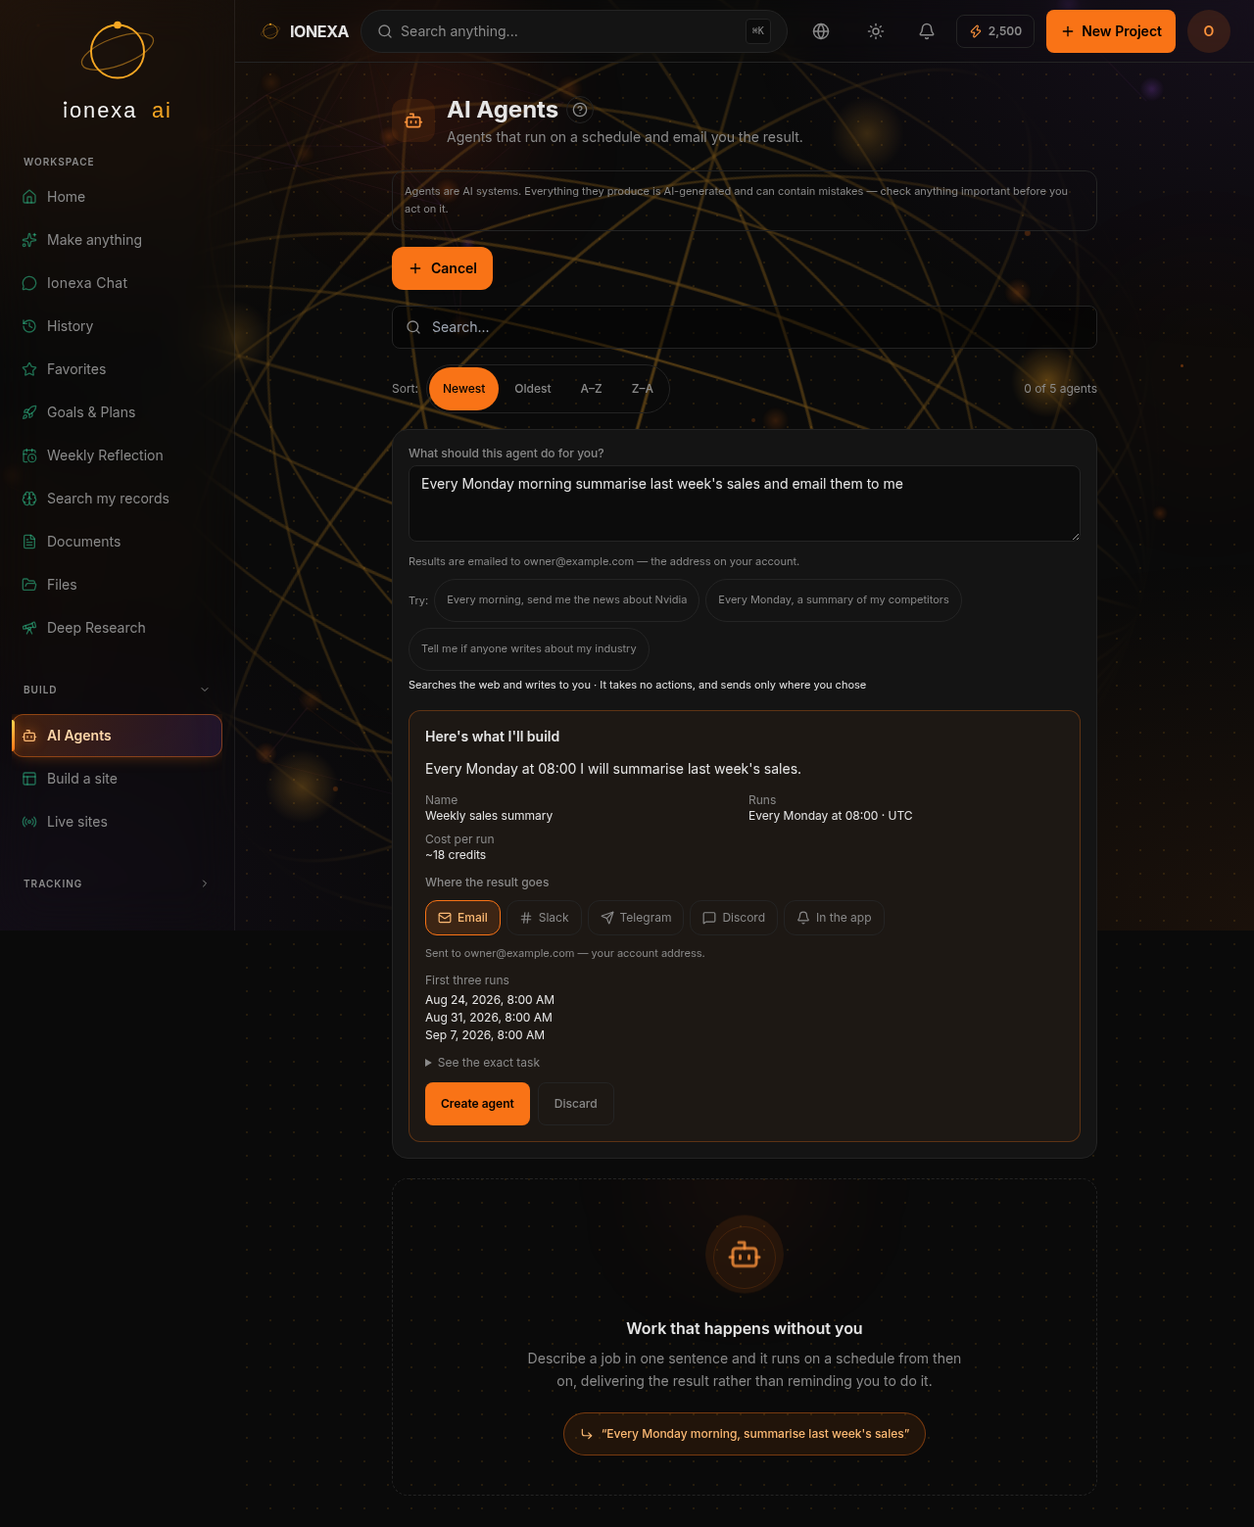
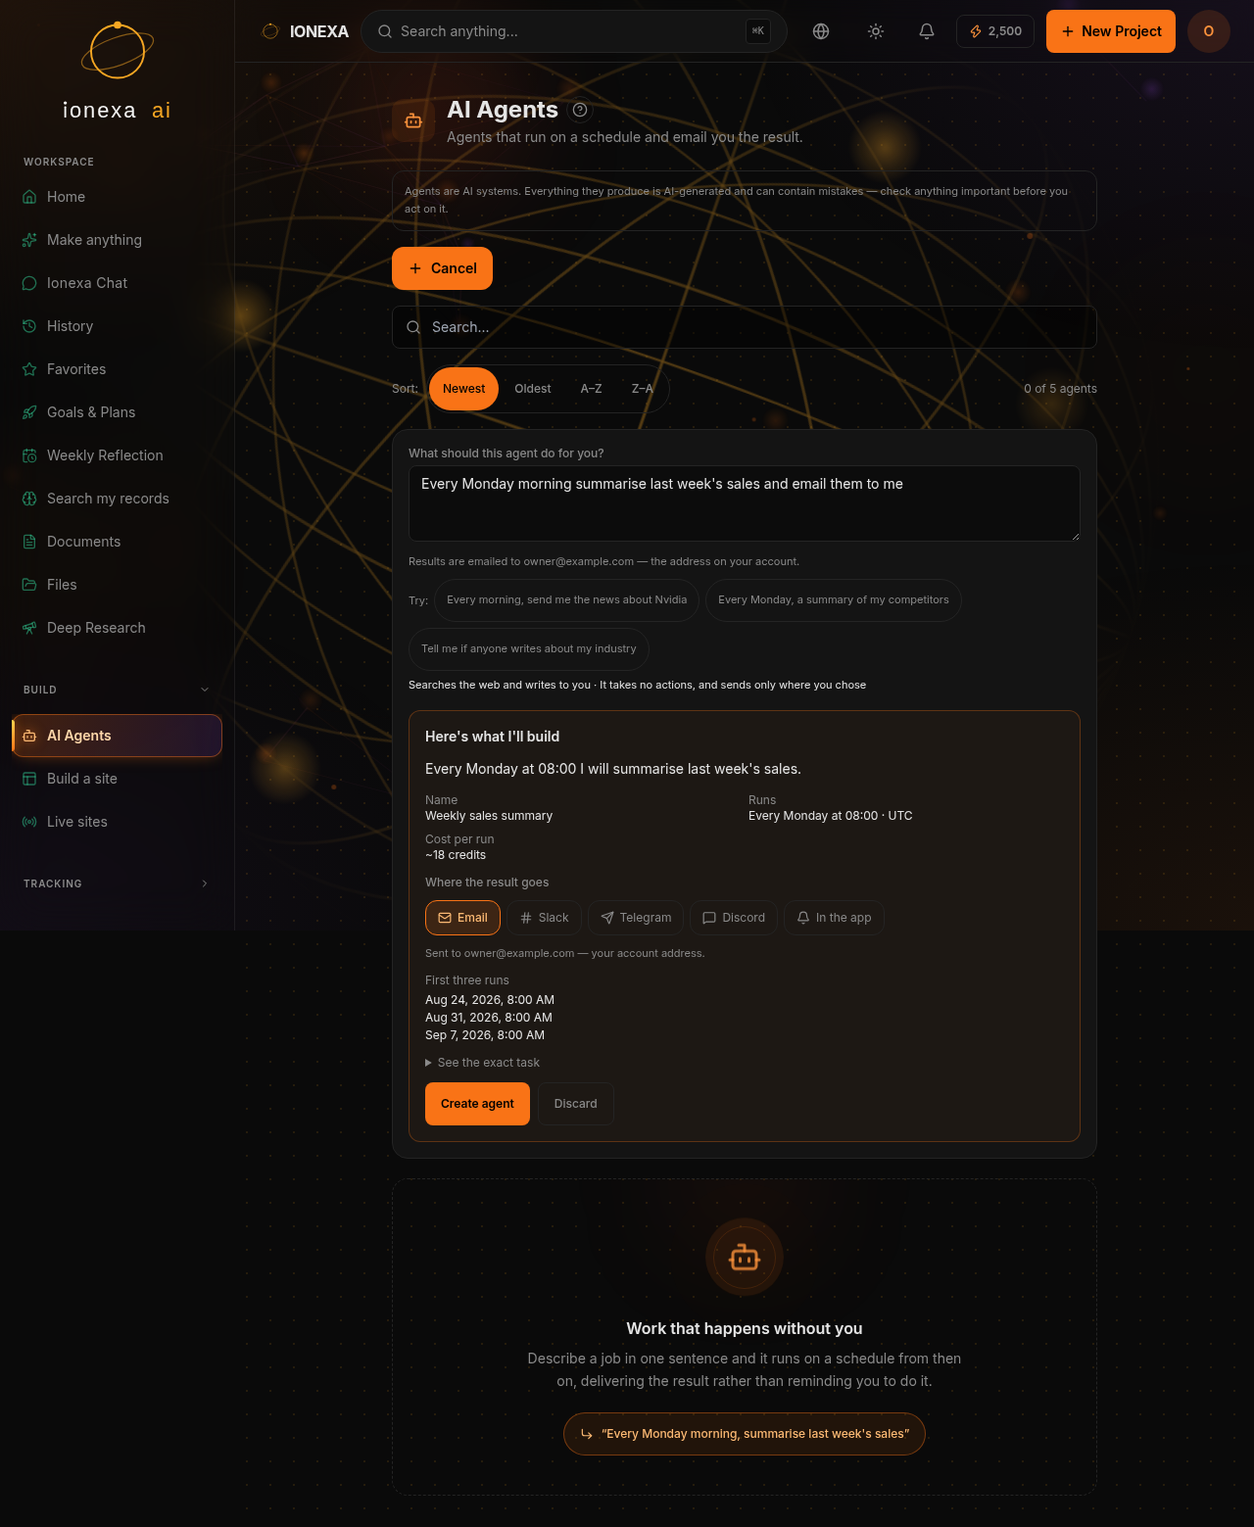
Close a cross-tenant read in the AI context, and four defects the V1/V2 audit surfaced
THE SERIOUS ONE. getUserFullContext — the "AI Life Context" folded into
the Chat, Create Anything, Mission Planner and agent-build prompts — left
scoping entirely to RLS. That holds for a client carrying the user's
session and does NOT hold for the service-role client, which two job
handlers pass in (lib/jobs/handlers/create.ts, mission-plan.ts). Under
that client the unfiltered reads returned the newest rows in the TABLE,
not the newest rows of THIS USER: on any database with more than one
account, one customer's ideas, leads, finance entries, trades and missions
were folded into another customer's prompt, and the model answered out of
them. loadLatestEnergyCheckIn took a userId and used it only in a log
line, with the same consequence.

api/agents/build had spotted the hazard and worked around it by calling
from the route instead of the worker. A workaround at one call site is not
a fix, so the filter now lives inside the functions, where it holds
whatever client is handed in. Both handlers keep passing the worker's
client — that is the point. A scanner in owner-only-access.test.mjs now
fails on any unscoped read in either file; the first version of that
scanner matched 2 of 5 reads and reported all-clear, which is why it was
rewritten before being trusted.

FOUR MORE, each verified against the code before being believed:

- Mission plans and weekly reflections came back in Greek for everyone.
  The Planner prompt is written in Greek and, unlike the Reviewer beside
[…]

diff --git a/src/lib/reflection-agent.ts b/src/lib/reflection-agent.ts
@@ -9,8 +9,16 @@ import { enModuleTitle } from "@/lib/module-labels";
 // Exported so the route prices the SAME model this file calls.
 export const REFLECTION_MODEL = "claude-sonnet-4-6";
 
-const REFLECTION_SYSTEM_PROMPT = `Δώσε σύντομη, ειλικρινή ανασκόπηση της βδομάδας — τι πήγε καλά, τι έμεινε ημιτελές, ΧΩΡΙΣ να είσαι υπερβολικά θετικός αν τα δεδομένα δείχνουν στασιμότητα. Βασίσου ΑΠΟΚΛΕΙΣΤΙΚΑ στα δεδομένα που σου δίνονται — μην υποθέτεις ή εφευρίσκεις πράγματα που δεν αναφέρονται. 3-6 σύντομες προτάσεις ή bullet points. Απάντα στα ελληνικά, εκτός αν κάτι στα δεδομένα υποδεικνύει άλλη γλώσσα.
+// LANGUAGE IS A PARAMETER, not a default. This used to end "Απάντα στα
+// ελληνικά, εκτός αν κάτι στα δεδομένα υποδεικνύει άλλη γλώσσα" — answer
+// in Greek unless the data suggests otherwise. A weekly reflection is
+// mostly NUMBERS, so nothing in the data suggests anything, and every
+// user in all ten locales got Greek. The caller knows the language; it
+// says so here.
+function reflectionSystemPrompt(language: string): string {
+  return `Δώσε σύντομη, ειλικρινή ανασκόπηση της βδομάδας — τι πήγε καλά, τι έμεινε ημιτελές, ΧΩΡΙΣ να είσαι υπερβολικά θετικός αν τα δεδομένα δείχνουν στασιμότητα. Βασίσου ΑΠΟΚΛΕΙΣΤΙΚΑ στα δεδομένα που σου δίνονται — μην υποθέτεις ή εφευρίσκεις πράγματα που δεν αναφέρονται. 3-6 σύντομες προτάσεις ή bullet points. Απάντησε ΑΠΟΚΛΕΙΣΤΙΚΑ στη γλώσσα του χρήστη (${language}) — ΠΟΤΕ σε άλλη.
 ${AI_CONDUCT_EL}${AI_QUALITY_CHECKLIST_EL}`;
+}
 
 // Turns the computed stats (lib/reflection.ts) into the plain-text user
 // message the Reflection Agent actually reasons over — kept separate from
@@ -38,6 +46,8 @@ ${missionLine}`;
 export async function generateWeeklyReflection(
   apiKey: string,
   userMessage: string,
+  /** The user's language, e.g. "el" / "en" / "de". */
+  language: string,
   // This call recorded nothing at all — the route charged a flat 2
   // credits and the tokens never reached a cost log. See CREDITS.md.
   costs?: CostAccumulator
@@ -46,7 +56,7 @@ export async function generateWeeklyReflection(
   const response = await anthropic.messages.create({
     model: REFLECTION_MODEL,
     max_tokens: 700,
-    system: REFLECTION_SYSTEM_PROMPT,
+    system: reflectionSystemPrompt(language),
     messages: [{ role: "user", content: userMessage }],
   });
   // Before the parse below, which can still bail out on an empty reply.

diff --git a/src/lib/user-context.ts b/src/lib/user-context.ts
@@ -38,6 +38,23 @@ type ModuleScan = {
 // throughout (same "small, per-module cap" trade-off as
 // lib/chat/mentor-context.ts) — this runs on every single AI request per
 // the brief, so keeping each query cheap matters more than usual.
+//
+// EVERY QUERY IN HERE FILTERS ON user_id EXPLICITLY, and that is not
+// belt-and-braces. It used to rely entirely on RLS, which is only true
+// for a client carrying the user's session — and TWO CALLERS pass the
+// SERVICE-ROLE client, for which RLS does not apply at all:
+// lib/jobs/handlers/create.ts and lib/jobs/handlers/mission-plan.ts both
+// run in the background worker, which has no session to hold. Under that
+// client the unfiltered `.from(table).select("*").limit(n)` returned the
+// newest rows in the TABLE rather than the newest rows of THIS USER — so
+// on any database with more than one account, one customer's ideas,
+// leads, finance entries and missions were folded into another
+// customer's prompt, and the model answered out of them.
+//
+// api/agents/build/route.ts had spotted the hazard and worked around it
+// by calling this from the route instead of the worker. A workaround at
+// one call site is not a fix: the guarantee belongs HERE, where it holds
+// whatever client is handed in.
 export async function getUserFullContext(
   supabase: SupabaseClient,
   userId: string
@@ -47,8 +64,8 @@ export async function getUserFullContext(
 
   const [perModule, missionsResult, latestEnergyCheckIn, totalLinksResult, recentLinksResult] =
     await Promise.all([
-      Promise.all(CLASSIFIER_MODULES.map((config) => scanModule(supabase, config, now))),
-      supabase.from("ai_missions").select("*"),
+      Promise.all(CLASSIFIER_MODULES.map((config) => scanModule(supabase, config, now, userId))),
+      supabase.from("ai_missions").select("*").eq("user_id", userId),
       loadLatestEnergyCheckIn(supabase, userId),
       supabase.from("entity_links").select("id", { count: "exact", head: true }).eq("user_id", userId),
       supabase
@@ -121,7 +138,8 @@ export async function getUserFullContext(
 async function scanModule(
   supabase: SupabaseClient,
   config: (typeof CLASSIFIER_MODULES)[number],
-  now: number
+  now: number,
+  userId: string
 ): Promise<ModuleScan> {
   const empty: ModuleScan = {
     title: enModuleTitle(config),
@@ -135,6 +153,10 @@ async function scanModule(
     const { data, error } = await supabase
       .from(config.table)
       .select("*")
+      // EXPLICIT, not left to RLS. See the note on getUserFullContext:
+      // this same query runs under the service-role client in two job
+      // handlers, where RLS does not apply at all.
+      .eq("user_id", userId)
       .order("created_at", { ascending: false })
       .limit(PER_MODULE_LIMIT);
 

diff --git a/src/app/dashboard/memory/page.tsx b/src/app/dashboard/memory/page.tsx
@@ -44,6 +44,12 @@ function buildSnippet(config: ModuleConfig, record: ModuleRecord): string {
     : joined;
 }
 
+/** The same bounds lib/timeline.ts uses, for the same reason: this page
+ *  reads every module table, and an unbounded read of 21 tables is a
+ *  page that stops loading once somebody has real data. */
+const PER_MODULE_LIMIT = 60;
+const MAX_MEMORY_RESULTS = 200;
+
 export default async function MemoryPage() {
   const t = await getTranslations("dashboard.memory");
   const supabase = createClient();
@@ -70,12 +76,20 @@ export default async function MemoryPage() {
     );
   }
 
+  // BOUNDED, like the surface it is a sibling of. This asked 21 tables for
+  // `select("*")` with no limit and then serialised every row of every one
+  // of them into the client as props — fine on a demo account, a page-load
+  // timeout on a real one. lib/timeline.ts solved the identical problem
+  // with the identical shape (60 per module, 200 shown); the same numbers
+  // are used here so the two cannot drift into disagreeing about what
+  // "recent" means.
   const perModule = await Promise.all(
     ALL_MODULES.map(async ({ config, href }) => {
       const { data } = await supabase
         .from(config.table)
         .select("*")
-        .order("created_at", { ascending: false });
+        .order("created_at", { ascending: false })
+        .limit(PER_MODULE_LIMIT);
       return { config, href, records: (data as ModuleRecord[] | null) ?? [] };
     })
   );
@@ -91,7 +105,8 @@ export default async function MemoryPage() {
         createdAt: record.created_at,
       }))
     )
-    .sort((a, b) => new Date(b.createdAt).getTime() - new Date(a.createdAt).getTime());
+    .sort((a, b) => new Date(b.createdAt).getTime() - new Date(a.createdAt).getTime())
+    .slice(0, MAX_MEMORY_RESULTS);
 
   return (
     <main className="min-h-full bg-dot-grid">

diff --git a/src/app/dashboard/product-workflow/page.tsx b/src/app/dashboard/product-workflow/page.tsx
@@ -15,6 +15,7 @@ import { ProductMissionButton } from "@/components/product-workflow/product-miss
 import { getModule } from "@/lib/modules";
 import { PRODUCT_WORKFLOW_ICON } from "@/lib/module-icons";
 import { loadLinkedEntities } from "@/lib/entity-links";
+import { loadFavoriteIds } from "@/lib/favorites";
 import { loadTimelineEntries } from "@/lib/timeline";
 import { detectProductDetailInsight, type ProductForPattern } from "@/lib/product-pattern";
 import type { ModuleRecord } from "@/types/module-record";
@@ -60,12 +61,14 @@ export default async function ProductWorkflowPage() {
 
   const productRows = (products as ModuleRecord[] | null) ?? [];
 
-  const linkedEntities = await loadLinkedEntities(
-    supabase,
-    user.id,
-    "products",
-    productRows.map((r) => r.id)
-  );
+  // BOTH, in parallel. This page loaded links and not favourites,
+  // so GenericList fell back to `favoritedIds?.has(id) ?? false` and
+  // every star rendered empty — on records the user really had
+  // starred, and which show as starred on the module page.
+  const [linkedEntities, favoritedIds] = await Promise.all([
+    loadLinkedEntities(supabase, user.id, "products", productRows.map((r) => r.id)),
+    loadFavoriteIds(supabase, user.id, "products", productRows.map((r) => r.id)),
+  ]);
 
   const patternProducts: ProductForPattern[] = productRows.map((r) => ({
     id: r.id,
@@ -143,7 +146,7 @@ export default async function ProductWorkflowPage() {
           {error && <ErrorMessage detail={`loading products: ${error.message}`} />}
 
 
-          <GenericList module={productsModule} records={productRows} linkedEntities={linkedEntities} />
+          <GenericList module={productsModule} records={productRows} linkedEntities={linkedEntities} favoritedIds={favoritedIds} />
         </div>
       </div>
     </main>

diff --git a/src/lib/mission-agents.ts b/src/lib/mission-agents.ts
@@ -46,7 +46,15 @@ export type StepEffort = (typeof STEP_EFFORTS)[number];
 // schema gave it no other option. clarificationNeeded/clarificationQuestion
 // give it one: for a goal too vague to break into REAL concrete actions,
 // it asks a short follow-up question instead of fabricating filler steps.
+// LANGUAGE. This prompt is written in Greek and, unlike the Reviewer
+// below, carried no instruction about the answer's language — so a
+// goal written in German came back as Greek steps. The user never
+// asked for a translation exercise. The rule is the Reviewer's,
+// verbatim: answer in the language the GOAL is written in, which is
+// the one thing the model can always see.
 const PLANNER_SYSTEM_PROMPT = `Είσαι ο Planner Agent. Ανάλυσε τον στόχο του χρήστη σε ${MIN_STEPS}-${MAX_STEPS} ΕΚΤΕΛΕΣΙΜΑ βήματα.
+
+ΓΛΩΣΣΑ: Γράψε ΚΑΘΕ βήμα (τίτλο και περιγραφή) και κάθε διευκρινιστική ερώτηση ΣΤΗΝ ΙΔΙΑ ΓΛΩΣΣΑ που είναι γραμμένος ο στόχος του χρήστη. Αν ο στόχος είναι στα αγγλικά, τα βήματα είναι στα αγγλικά· στα γερμανικά, στα γερμανικά. ΠΟΤΕ μη μεταφράζεις τον στόχο σε άλλη γλώσσα.
 
 ΤΙ ΣΗΜΑΙΝΕΙ "ΕΚΤΕΛΕΣΙΜΟ":
 Κάθε βήμα πρέπει να λέει ΤΙ ΑΚΡΙΒΩΣ κάνει ο χρήστης — με αριθμό, με όνομα, με συγκεκριμένη ενέργεια — και ΠΟΥ καταλήγει το αποτέλεσμα μέσα στην εφαρμογή.

diff --git a/src/app/dashboard/trading-workflow/page.tsx b/src/app/dashboard/trading-workflow/page.tsx
@@ -15,6 +15,7 @@ import { TradingMissionButton } from "@/components/trading-workflow/trading-miss
 import { getModule } from "@/lib/modules";
 import { TRADING_WORKFLOW_ICON } from "@/lib/module-icons";
 import { loadLinkedEntities } from "@/lib/entity-links";
+import { loadFavoriteIds } from "@/lib/favorites";
 import { loadTimelineEntries } from "@/lib/timeline";
 import {
   detectDayOfWeekPattern,
@@ -60,12 +61,14 @@ export default async function TradingWorkflowPage() {
 
   const tradeRows = (trades as ModuleRecord[] | null) ?? [];
 
-  const linkedEntities = await loadLinkedEntities(
-    supabase,
-    user.id,
-    "trades",
-    tradeRows.map((r) => r.id)
-  );
+  // BOTH, in parallel. This page loaded links and not favourites,
+  // so GenericList fell back to `favoritedIds?.has(id) ?? false` and
+  // every star rendered empty — on records the user really had
+  // starred, and which show as starred on the module page.
+  const [linkedEntities, favoritedIds] = await Promise.all([
+    loadLinkedEntities(supabase, user.id, "trades", tradeRows.map((r) => r.id)),
+    loadFavoriteIds(supabase, user.id, "trades", tradeRows.map((r) => r.id)),
+  ]);
 
   const patternTrades = tradeRows.map((r) => ({
     id: r.id,
@@ -174,7 +177,7 @@ export default async function TradingWorkflowPage() {
           {error && <ErrorMessage detail={`loading trades: ${error.message}`} />}
 
 
-          <GenericList module={tradingModule} records={tradeRows} linkedEntities={linkedEntities} />
+          <GenericList module={tradingModule} records={tradeRows} linkedEntities={linkedEntities} favoritedIds={favoritedIds} />
         </div>
       </div>
     </main>

diff --git a/src/components/modules/generic-record-detail.tsx b/src/components/modules/generic-record-detail.tsx
@@ -6,6 +6,8 @@ import { useRouter } from "next/navigation";
 import { useTranslations, useLocale } from "next-intl";
 import { FileText, Link2, Pencil, X } from "lucide-react";
 import { createClient } from "@/lib/supabase/client";
+import { ApiError } from "@/lib/errors/api-error";
+import { useErrorText } from "@/lib/errors/use-error-text";
 import { iconForSlug } from "@/lib/module-icons";
 import { DetailPanel, type DetailTab } from "@/components/ui/detail-panel";
 import { FavoriteButton } from "@/components/favorites/favorite-button";
@@ -67,6 +69,7 @@ export function GenericRecordDetail({
   const tCommon = useTranslations("common");
   const formatRelativeTime = useFormatRelativeTime();
   const router = useRouter();
+  const describe = useErrorText();
   const supabase = createClient();
   const { addToast } = useToast();
 
@@ -116,8 +119,14 @@ export function GenericRecordDetail({
     setSaving(false);
 
     if (updateError) {
-      setError(updateError.message);
-      addToast(`✗ ${updateError.message}`, "error");
+      // The SAME treatment the create path got: a raw PostgREST string
+      // ("new row violates row-level security policy for table \"trades\"")
+      // names an internal table, is English in a ten-language app, and
+      // tells the user nothing they can act on. Editing a record was the
+      // half of that fix nobody came back to.
+      const failure = describe(new ApiError(500, { error: updateError.message }));
+      setError(failure.text);
+      addToast(`✗ ${failure.what}`, "error");
       return;
     }
 

diff --git a/src/lib/jobs/use-ai-job.ts b/src/lib/jobs/use-ai-job.ts
@@ -211,15 +211,23 @@ export function useSmoothedJob(raw: AiJob | null): AiJob | null {
       // of the same finished row must not re-enqueue it.
       if (finishedQueued.current) return;
       finishedQueued.current = true;
-      for (let s = lastStep.current + 1; s <= total; s++) {
-        queue.current.push({
-          ...raw,
-          status: "running",
-          step: s,
-          stepLabel: steps[s - 1] ?? raw.stepLabel,
-        });
+      // ONLY ON SUCCESS. A job that completed really did pass every step,
+      // so showing the ones the polling missed is narration. A job that
+      // FAILED at step 1 did not reach steps 2-4, and showing them would
+      // be this component inventing work that never happened — the exact
+      // dishonesty the step counter exists to prevent. A failure jumps
+      // straight to the outcome, behind whatever is already queued.
+      if (raw.status === "done") {
+        for (let s = lastStep.current + 1; s <= total; s++) {
+          queue.current.push({
+            ...raw,
+            status: "running",
+            step: s,
+            stepLabel: steps[s - 1] ?? raw.stepLabel,
+          });
+        }
+        lastStep.current = total;
       }
-      lastStep.current = total;
       queue.current.push(raw);
     }
 

diff --git a/src/app/api/agents/build/route.ts b/src/app/api/agents/build/route.ts
@@ -205,11 +205,14 @@ export async function POST(request: Request) {
     // something the AI Life Context already answers. Two constraints
     // decide where this runs:
     //
-    //   It CANNOT run in the worker. getUserFullContext queries
-    //   ai_missions with no user_id filter and relies entirely on RLS to
-    //   scope it; the worker holds the service-role client, so the same
-    //   call there would fold every user's missions into this user's
-    //   prompt.
+    //   It no longer HAS to avoid the worker. This comment used to say
+    //   getUserFullContext queried ai_missions with no user_id filter and
+    //   relied entirely on RLS, so calling it from the worker (which
+    //   holds the service-role client) would fold every user's missions
+    //   into this user's prompt. That was true, and it was true of two
+    //   other handlers that did exactly that. The filter now lives inside
+    //   getUserFullContext, so the function is safe under either client —
+    //   see the note on it. Kept here anyway, for the second reason.
     //
     //   It only runs when the check will. On the resubmission
     //   (skipClarification) there is no check to inform, and this is

diff --git a/src/app/api/reflection/generate/route.ts b/src/app/api/reflection/generate/route.ts
@@ -1,4 +1,5 @@
 import { NextResponse } from "next/server";
+import { getLocale } from "next-intl/server";
 import { createClient } from "@/lib/supabase/server";
 import { loadWeeklyReflectionStats } from "@/lib/reflection";
 import { buildReflectionUserMessage, generateWeeklyReflection, REFLECTION_MODEL } from "@/lib/reflection-agent";
@@ -155,7 +156,10 @@ export async function POST(request: Request) {
     let reflection: string;
     try {
       void recordAiCallForDailySpend(CREDIT_COSTS.weeklyReflection);
-      reflection = await generateWeeklyReflection(apiKey, userMessage, costs);
+      // The user's own language, the same way api/chat reads it. The
+      // reflection prompt used to default to Greek for everyone.
+      const locale = await getLocale();
+      reflection = await generateWeeklyReflection(apiKey, userMessage, locale, costs);
     } catch (err) {
       logApiError("/api/reflection/generate", err, { stage: "reflection_call" });
       await releaseReservation(user.id, reservationId);

diff --git a/src/lib/energy-checkins.ts b/src/lib/energy-checkins.ts
@@ -21,6 +21,13 @@ export async function loadLatestEnergyCheckIn(
     const { data, error } = await supabase
       .from("user_energy_checkins")
       .select("energy_level, note, created_at")
+      // EXPLICIT. This takes a userId and used to use it only in a log
+      // line: the read itself was left to RLS. That holds for a client
+      // carrying the user's session and NOT for the service-role client,
+      // which two job handlers pass down this exact path — so the "latest
+      // check-in" folded into their prompt was the latest check-in of
+      // whoever in the whole database had made one most recently.
+      .eq("user_id", userId)
       .order("created_at", { ascending: false })
       .limit(1)
       .maybeSingle();
